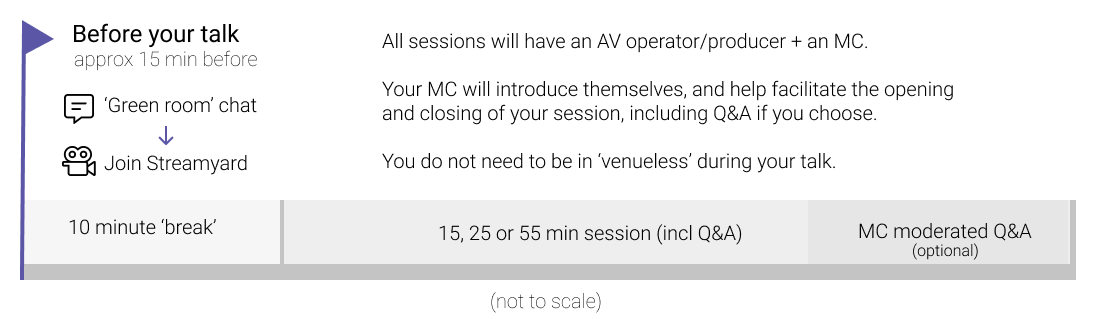
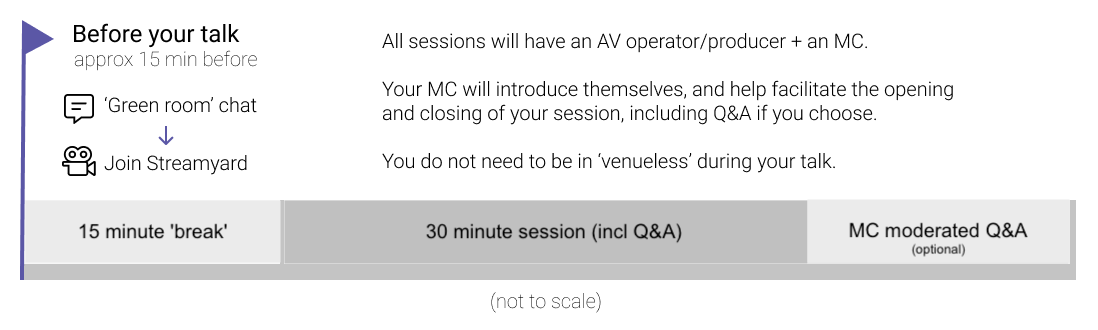
refresh speaker pack for 2021

Changed region(s): [[0.2477, 0.6061, 0.7432, 0.8182], [0.7741, 0.6667, 0.9599, 0.7879], [0.0619, 0.6667, 0.2168, 0.7273]]

diff --git a/data/Page/speakers-prerecord.md b/data/Page/speakers-prerecord.md
@@ -2,8 +2,6 @@
 path: speakers/pre-record
 ---
 
-<p><i>This content relates to the 2020 event. It will be updated for 2021</i></p>
-
 # Information for pre-recording your talk
 
 ## Your options for pre-recording
@@ -12,8 +10,6 @@ If you want to pre-record, you have two options:
 
 - **Pre-record by yourself**. This is the way to go if you want the best video and audio quality, if you don't want a dodgy Internet connection causing problems, or if you want to do something different and interesting with your video.
 - **Apply for a slot to pre-record with our help**. We'll use roughly the same tools as we use on the day, but we'll record the output earlier and play it back. The quality will be the same as a livestream, and your Internet connection will still need to be up to scratch.  Limited slots are available, so not everyone that wants to do this will be able to.
-
-Either way, **you need to let us know before 15 August** through Pretalx. If you [edit your accepted submission](https://pretalx.com/pycon-au-2020/me/submissions/), you'll see a question you can use to indicate your preference. (This is *not* the same as the question that you were asked during the CFP process.)
 
 With both options, we encourage you to invest time before your talk to ensure your recording setup is optimal (see below).  Clear audio especially will ensure your video is as engaging as possible, holding people’s attention for the duration of the talk.
 
@@ -25,7 +21,7 @@ Some additional support is available for talks scheduled in the **Curlyboi Theat
 
 ## Technical requirements
 
-- Video length: A **maximum** of the duration you selected&mdash;so either **15, 25 or 55 minutes**. It can run a little shorter but it **can not** run longer, even by a second.
+- Video length: A **maximum** of the duration you selected&mdash;so either **30 minutes**. It can run a little shorter but it **can not** run longer, even by a second.
 - Resolution:1080p (1920x1080) or 720p (1280x720)
 - We can handle format re-conversion, but preference for format is below.
 - We will email out upload details to those who opt-in to this.

diff --git a/data/Page/backstage.md b/data/Page/backstage.md
@@ -2,11 +2,9 @@
 path: speakers/backstage
 ---
 
-<p><i>This content relates to the 2020 event. It will be updated for 2021</i></p>
-
 # Backstage @ PyConline AU
 
-*This page outlines the tools, the tech, and the key moments involved in presenting at PyConline AU 2020. It will likely be updated based on your feedback during tech checks so please check back here closer to the conference for more detail.*
+*This page outlines the tools, the tech, and the key moments involved in presenting at PyConline AU 2021. It will likely be updated based on your feedback during tech checks so please check back here closer to the conference for more detail.*
 
 There are three systems you'll have access to throughout the course of the event:
 
@@ -16,8 +14,8 @@ There are three systems you'll have access to throughout the course of the event
 
 You'll gain access to both Discord and Venueless through your ticket! The order confirmation screen has all the links you need to get in.
 
-* **If you haven't redeemed your ticket yet**, look for an email with the subject *[PyConline AU 2020] Your speaker ticket for PyConline AU 2020*, sent around TODO ADD DATE>. Then, follow the prompts to redeem your ticket.
-* **If you have redeemed your ticket already**, look for an email with the subject *[PyConline AU 2020] Your order*, sent around the time you redeemed it.
+* **If you haven't redeemed your ticket yet**, look for an email with the subject *[PyConline AU 2021] Your speaker ticket for PyConline AU 2021*, sent around TODO DATE. Then, follow the prompts to redeem your ticket.
+* **If you have redeemed your ticket already**, look for an email with the subject *[PyConline AU 2021] Your order*, sent around the time you redeemed it.
 
 
 As an outline, these are the key dates, times and locations that are important for presenting at the conference.

diff --git a/data/Page/tips.md b/data/Page/tips.md
@@ -17,7 +17,7 @@ By far, the best investment is ensuring audio quality is clear and not echo-y.  
 
 In an ideal world; a external USB condenser microphone is your best bet, but you will need to practice with it to ensure you’re getting optimal audio levels, it’s positioned correctly, it doesn’t accidentally pickup your speakers/other sound during your talk, and make sure any gain or volume controls are set so it's loud and clear, without any distortion, even when you're speaking loudly into it.
 
-Many podcasting guides are very useful to read, for example: https://www.buzzsprout.com/blog/mic-technique-podcasting
+Many podcasting guides are very useful to read, for example: [https://www.buzzsprout.com/blog/mic-technique-podcasting](https://www.buzzsprout.com/blog/mic-technique-podcasting)
 
 Dropping down from this, using a USB headset with a microphone is the next best thing.
 

diff --git a/data/Page/speakers-content.md b/data/Page/speakers-content.md
@@ -2,8 +2,6 @@
 path: speakers/content
 ---
 
-<p><i>This content relates to the 2020 event. It will be updated for 2021</i></p>
-
 # About the content of your talk
 
 ## Updating your talk information
@@ -14,7 +12,7 @@ If you haven't already, we need you to **tick the consent box that says we're al
 
 In addition to that, you can make changes to your title, abstract, bio, and so on.
 
-If you don't let us know that you want to pre-record by updating Pretalx before 15 August, we'll assume that you're presenting live.
+You would have indicated that you will present live or provide a pre-recorded video. Confirm that setting. If you don't provide us a pre-recorded video before 23 August, we'll assume that you're presenting live.
 
 ## Conduct and expectations
 
